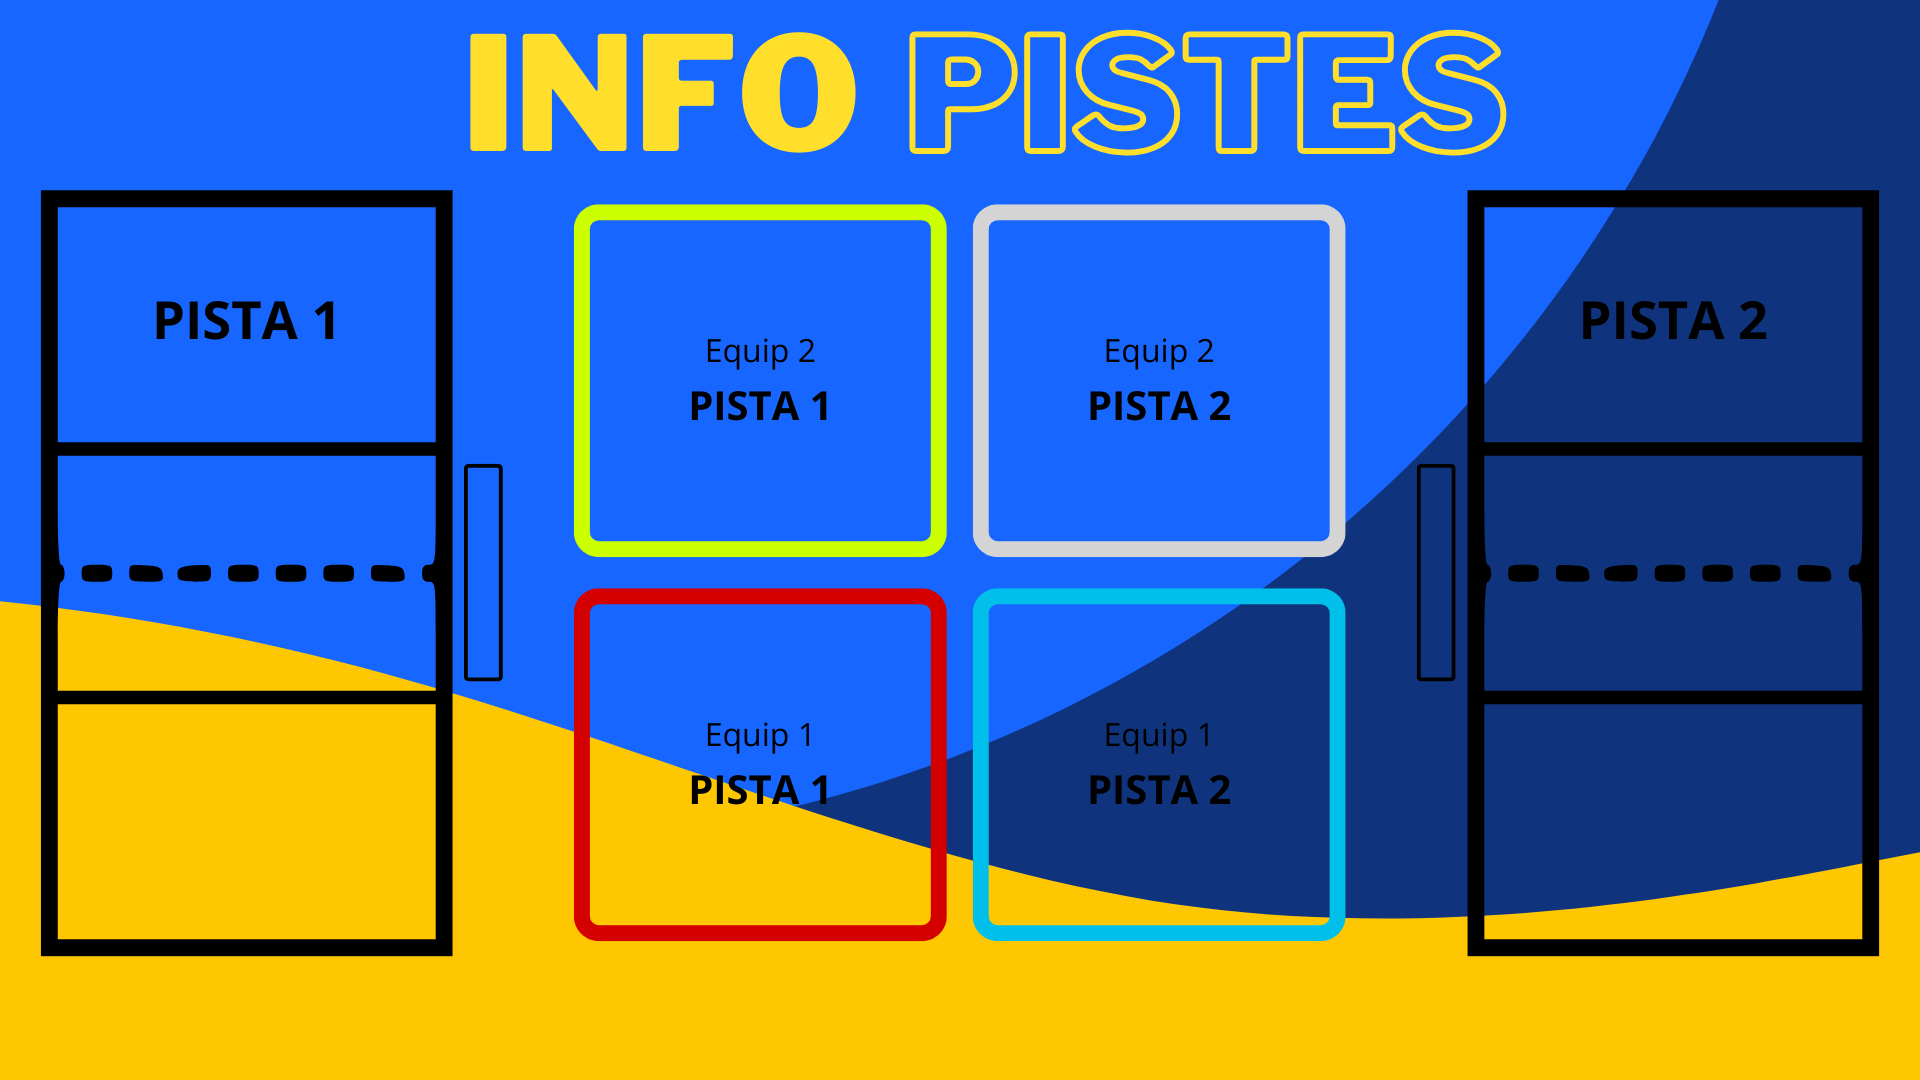
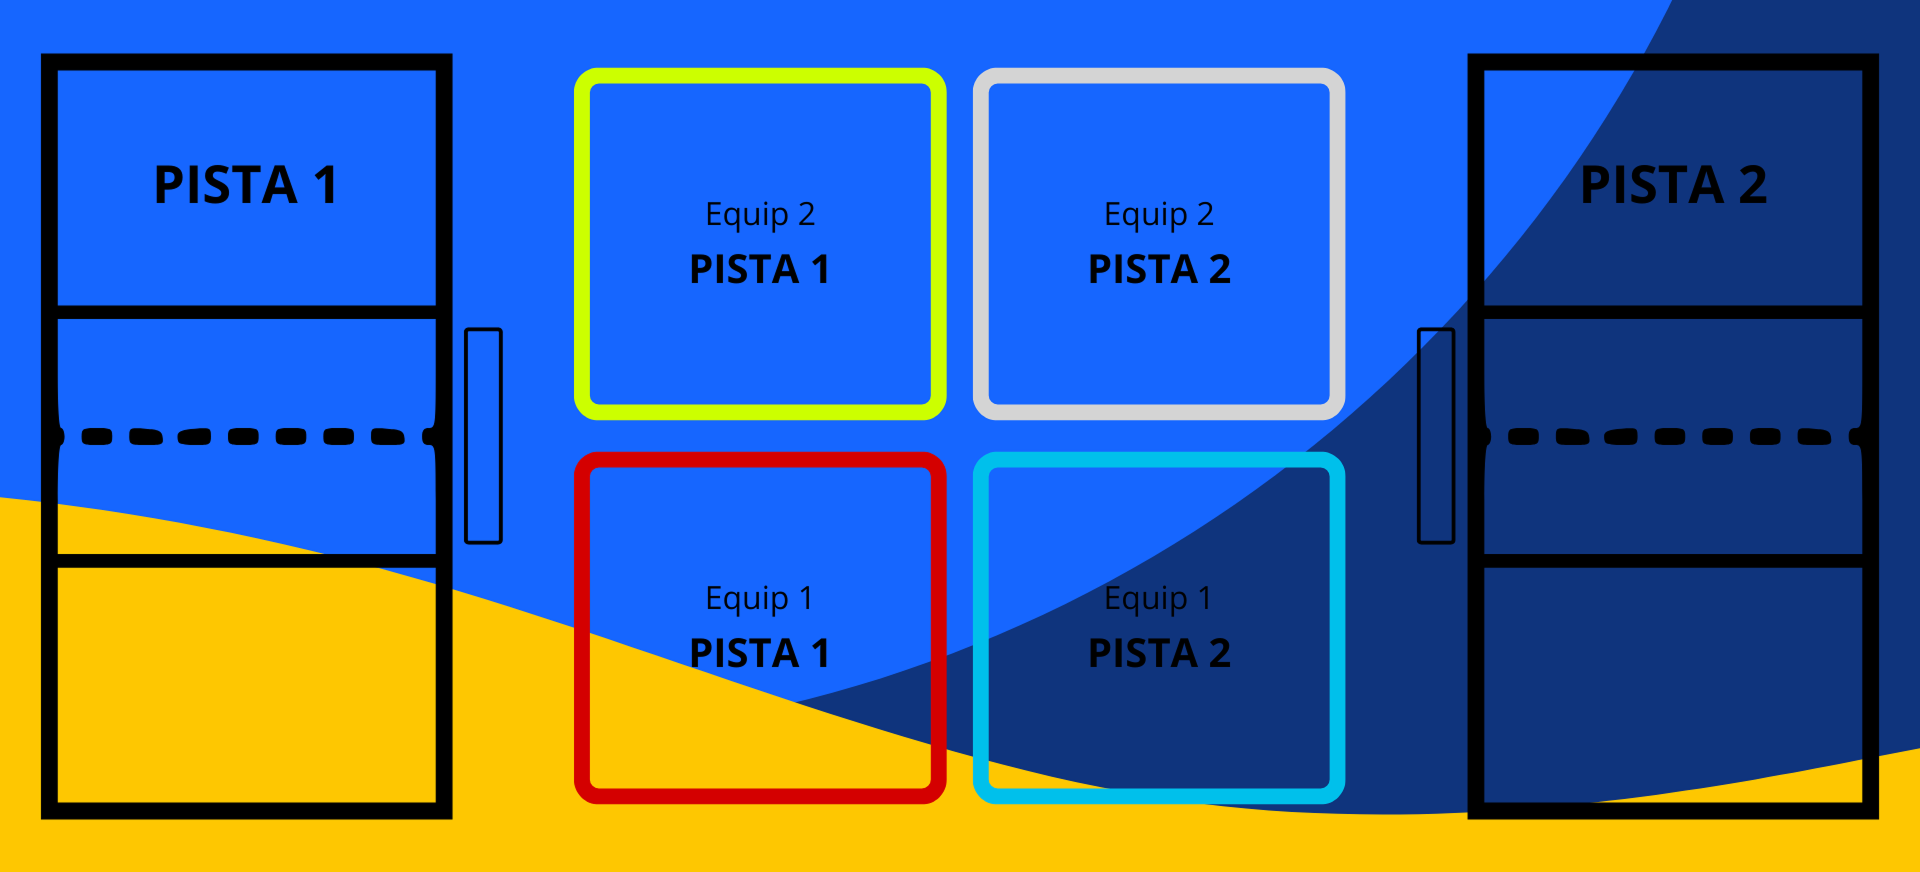
actualizar a realtime

diff --git a/src/components/MarcadorPabellon.jsx b/src/components/MarcadorPabellon.jsx
@@ -1,17 +1,24 @@
 import React, { useEffect, useState } from "react";
 import './EstilosReact.css';
-
+import { createClient } from "@supabase/supabase-js";
 
 
 
 export default function BracketAutoRefresh({tipoMarcador, active}) {
+  const supabaseUrl = "https://aimtsdmsojunxazbxfue.supabase.co";
+  const supabaseAnonKey = "sb_publishable_JVARTG3Ed4c6FHr0BtMYAw_cUSnTrg7";
+
+  const supabaseReact = createClient(
+  supabaseUrl,
+  supabaseAnonKey
+);
 
 if(active === false) return null;
 
 const [partidos, setPartidos] = useState([]);
 const [numPartidos, setNumPartidos] = useState(0);
-useEffect(() => {
-  async function cargarPartidos() {
+
+async function cargarPartidos() {
     //setLoading(true);
     try {
     //   const res = await fetch('/api/usuario/CargarBracket');
@@ -45,9 +52,31 @@ useEffect(() => {
     }
   }
 
-   cargarPartidos();
-  const intervalo = setInterval(cargarPartidos, 3*1000); // cada 3 segundos
-  return () => clearInterval(intervalo);
+useEffect(() => {
+  
+  cargarPartidos();
+
+  const channel = supabaseReact
+    .channel('realtime-marcador')
+    .on('postgres_changes', {
+      event: '*',
+      schema: 'public',
+      table: "PartidosSS26",
+    }, cargarPartidos)
+    .on('postgres_changes', {
+      event: '*',
+      schema: 'public',
+      table: "HistorialSS26",
+    }, cargarPartidos)
+    .subscribe();
+
+  return () => {
+    supabaseReact.removeChannel(channel);
+  };
+
+  //  cargarPartidos();
+  //const intervalo = setInterval(cargarPartidos, 3*1000); // cada 3 segundos
+  //return () => clearInterval(intervalo);
 }, []);
 
     
@@ -492,7 +521,7 @@ useEffect(() => {
         <>
             <div className="h-52 px-5 w-full flex items-center justify-center">
         {
-            numPartidos === 2 ? (
+            numPartidos === 2 && (
                 <>
                 <div className="w-full grid grid-cols-2 grid-rows-1 place-items-center ">
 
@@ -656,7 +685,10 @@ useEffect(() => {
 
                 </div>
                 </>
-            ):(
+            )
+        }
+        {
+          numPartidos === 1 && (
                 <>
                 <div>
         {
@@ -737,6 +769,12 @@ useEffect(() => {
         </div>
                 </>
             )
+        }
+        {
+          numPartidos === 0 && (
+            <>
+            </>
+          )
         }
        
     </div>

diff --git a/src/components/ClasificacionReact.jsx b/src/components/ClasificacionReact.jsx
@@ -5,13 +5,23 @@ import EquipoBoxDer from "./EquipoBoxDer";
 import EquipoIzq from "./EquipoIzq";
 import EquipoDer from "./EquipoDer";
 import './EstilosReact.css';
-
+import { createClient } from "@supabase/supabase-js";
 const traducirPartido = (str) => {
   const match = str.match(/\d+$/);
   return `Partit ${match ? match[0] : ""}`;
 };
 
 export default function BracketAutoRefresh() {
+
+      const supabaseUrl = "https://aimtsdmsojunxazbxfue.supabase.co";
+      const supabaseAnonKey = "sb_publishable_JVARTG3Ed4c6FHr0BtMYAw_cUSnTrg7";
+    
+      const supabaseReact = createClient(
+      supabaseUrl,
+      supabaseAnonKey
+    );
+    
+
 const [partidos, setPartidos] = useState([]);
 const [loading, setLoading] = useState(true);
 const [partidosObj, setPartidosObj] = useState({});
@@ -48,7 +58,19 @@ useEffect(() => {
   }
 
   cargarPartidos();
-  const intervalo = setInterval(cargarPartidos, 3 * 60 *1000); // cada 3 minutos
+  const channel = supabaseReact
+    .channel('realtime-marcador')
+    .on('postgres_changes', {
+      event: '*',
+      schema: 'public',
+      table: "PartidosSS26",
+    }, cargarPartidos)
+    .subscribe();
+
+  return () => {
+    supabaseReact.removeChannel(channel);
+  };
+  //const intervalo = setInterval(cargarPartidos, 3 * 60 *1000); // cada 3 minutos
     const handleKeyPress = (event) => {
     if (event.key.toLowerCase() === 'r') {
       cargarPartidos();

diff --git a/src/components/ProximosPartidos.jsx b/src/components/ProximosPartidos.jsx
@@ -1,10 +1,20 @@
 import React, { useEffect, useState } from "react";
 import './EstilosReact.css';
 
-
+import { createClient } from "@supabase/supabase-js";
 
 
 export default function BracketAutoRefresh() {
+
+        const supabaseUrl = "https://aimtsdmsojunxazbxfue.supabase.co";
+        const supabaseAnonKey = "sb_publishable_JVARTG3Ed4c6FHr0BtMYAw_cUSnTrg7";
+      
+        const supabaseReact = createClient(
+        supabaseUrl,
+        supabaseAnonKey
+      );
+      
+
 const [partidos, setPartidos] = useState([]);
 useEffect(() => {
   async function cargarPartidos() {
@@ -30,8 +40,21 @@ useEffect(() => {
     }
   }
 
+
    cargarPartidos();
-  const intervalo = setInterval(cargarPartidos, 60 *1000); // cada 5 minutos
+    const channel = supabaseReact
+    .channel('realtime-marcador')
+    .on('postgres_changes', {
+      event: '*',
+      schema: 'public',
+      table: "PartidosSS26",
+    }, cargarPartidos)
+    .subscribe();
+
+  return () => {
+    supabaseReact.removeChannel(channel);
+  };
+  //const intervalo = setInterval(cargarPartidos, 60 *1000); // cada 5 minutos
     const handleKeyPress = (event) => {
     if (event.key.toLowerCase() === 'r') {
       cargarPartidos();

diff --git a/src/components/AnimacionPantalla.jsx b/src/components/AnimacionPantalla.jsx
@@ -3,7 +3,7 @@ import ClasificacionReact from "./ClasificacionReact";
 import MarcadorPabellon from "./MarcadorPabellon";
 import ProximosPartidos from "./ProximosPartidos";
 import EscudosCarrusel from "./EscudosCarrusel.jsx";
-import MiniMarcador from "./MiniMarcador.jsx";
+//import MiniMarcador from "./MiniMarcador.jsx";
 // import CuadradosTransition from "./CuadradosTransition"; // TRANSICIÓN DESACTIVADA
 
 const Pantalla = () => {
